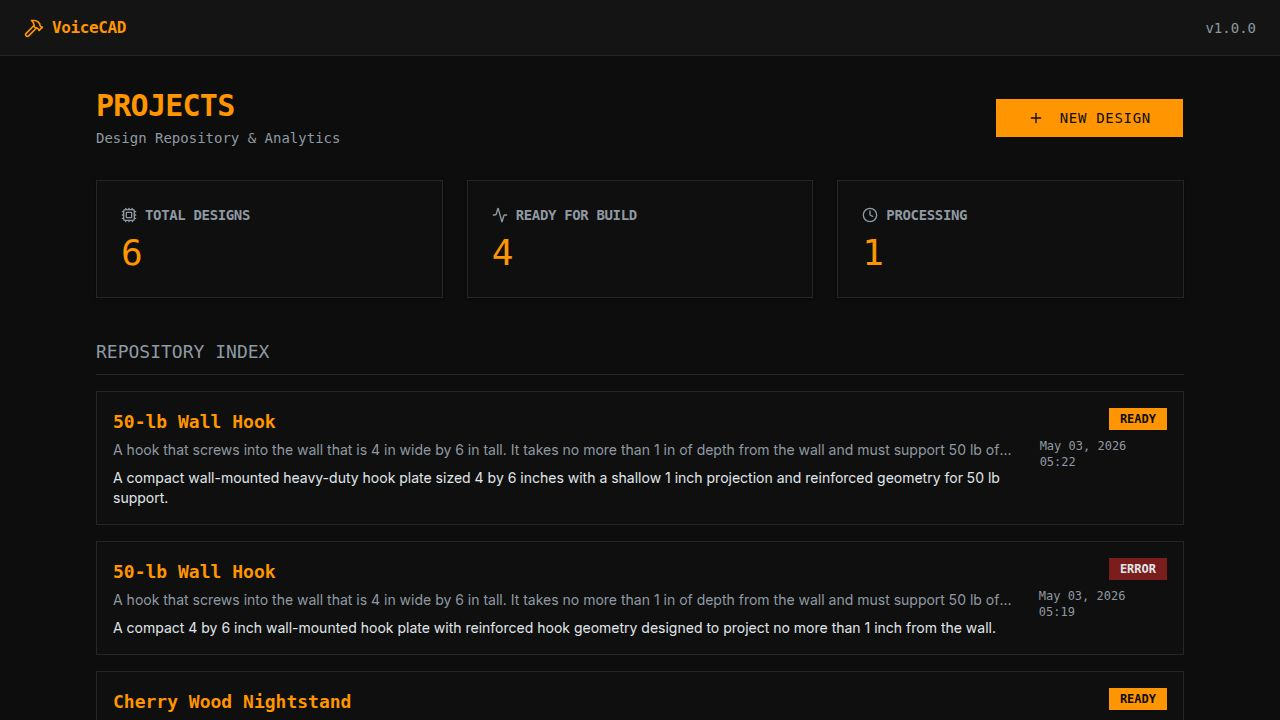
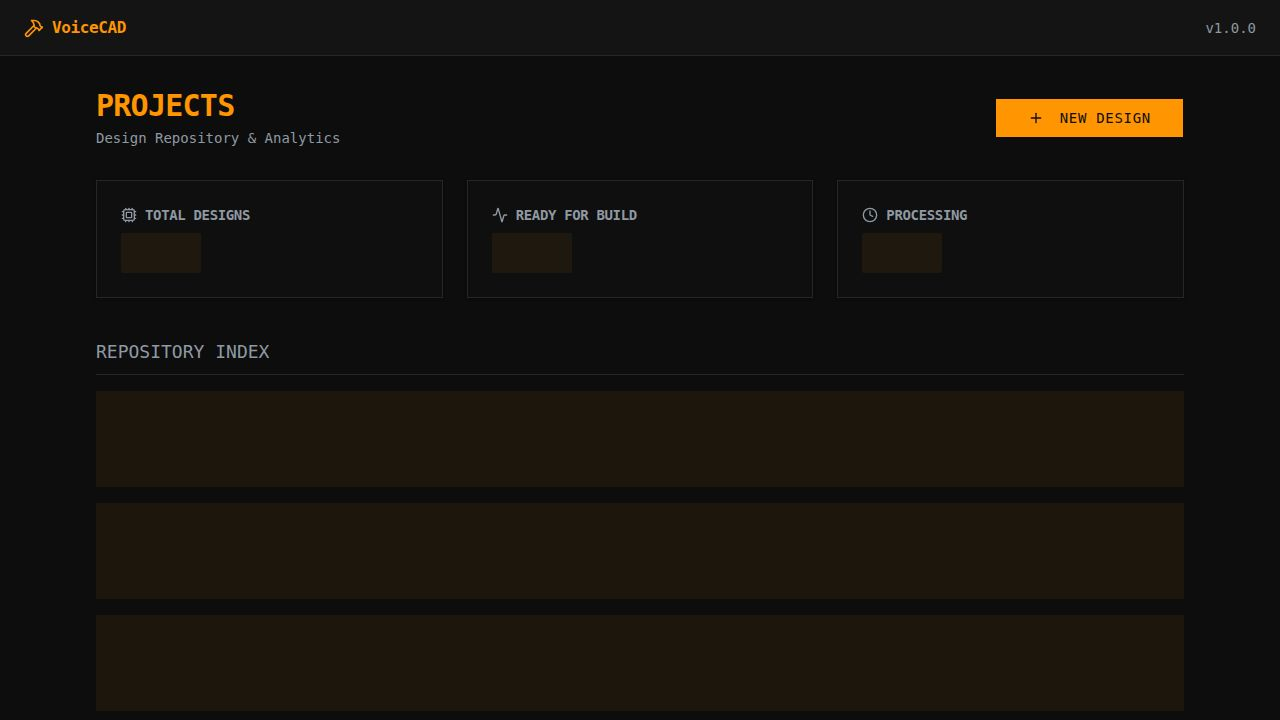
feat: Add STL export for 3D printing + fix nullable field regression (Task #2)
## Primary Work (Task #2)
Implemented client-side STL file export so users can download their designs
as .stl files for use with 3D printers or CAM software.

### New file: artifacts/app/src/lib/stl-export.ts
- Standalone utility building Three.js geometries from Component3D data
- Supports all three shapes: box, cylinder, sphere (mirrors WebGLViewer logic)
- Expands components by quantity for multi-part designs
- Uses STLExporter from three/addons/exporters/STLExporter.js
- Triggers browser download as ASCII STL named after the design

### Modified: artifacts/app/src/pages/design-studio.tsx
- Added Export STL button in the left panel (only shown when status=ready + components exist)
- Button uses data-testid="button-export-stl" and styled with primary color/monospace font
- Export respects the currently selected variant's activeComponents

## Bug Fix (addressed in code review)
Fixed a blocking backend regression where nullable optional fields from the AI prompt
caused Zod response validation failures, preventing designs from reaching "ready" state.

### Root cause
AI prompt instructed returning null for printTimeEstimate, weightCapacity, installationNotes
when not applicable. Zod schemas only accepted string | undefined (not null).

### Fix applied to
- artifacts/api-server/src/routes/designs.ts: strip null → delete key in validateStructuredData
- lib/api-spec/openapi.yaml: added nullable: true to all three fields
[…]

diff --git a/artifacts/app/src/lib/stl-export.ts b/artifacts/app/src/lib/stl-export.ts
@@ -1,0 +1,75 @@
+import * as THREE from "three";
+import { STLExporter } from "three/addons/exporters/STLExporter.js";
+
+interface Component3D {
+  name: string;
+  material: string;
+  quantity: number;
+  width: number;
+  height: number;
+  depth: number;
+  x: number;
+  y: number;
+  z: number;
+  color?: string;
+  shape?: "box" | "cylinder" | "sphere";
+}
+
+export function exportComponentsAsSTL(
+  components: Component3D[],
+  filename: string = "design"
+): void {
+  const group = new THREE.Group();
+  const SCALE = 0.5;
+
+  const expanded: Component3D[] = [];
+  components.forEach((comp) => {
+    const qty = Math.max(1, comp.quantity || 1);
+    for (let i = 0; i < qty; i++) {
+      const spacing = comp.width + 2;
+      expanded.push({
+        ...comp,
+        x: comp.x + (i - Math.floor(qty / 2)) * spacing,
+        quantity: 1,
+      });
+    }
+  });
+
+  expanded.forEach((comp) => {
+    let geo: THREE.BufferGeometry;
+    const shape = comp.shape || "box";
+    if (shape === "cylinder") {
+      const r = (Math.max(comp.width, comp.depth) / 2) * SCALE;
+      geo = new THREE.CylinderGeometry(r, r, comp.height * SCALE, 32);
+    } else if (shape === "sphere") {
+      const r = (Math.max(comp.width, comp.height, comp.depth) / 2) * SCALE;
+      geo = new THREE.SphereGeometry(r, 32, 32);
+    } else {
+      geo = new THREE.BoxGeometry(
+        comp.width * SCALE,
+        comp.height * SCALE,
+        comp.depth * SCALE
+      );
+    }
+
+    const mesh = new THREE.Mesh(
+      geo,
+      new THREE.MeshStandardMaterial({ color: comp.color || "#eab308" })
+    );
+    mesh.position.set(comp.x * SCALE, comp.y * SCALE, comp.z * SCALE);
+    group.add(mesh);
+  });
+
+  const exporter = new STLExporter();
+  const stlString = exporter.parse(group, { binary: false });
+
+  const blob = new Blob([stlString], { type: "application/octet-stream" });
+  const url = URL.createObjectURL(blob);
+  const a = document.createElement("a");
+  a.href = url;
+  a.download = `${filename}.stl`;
+  document.body.appendChild(a);
+  a.click();
+  document.body.removeChild(a);
+  URL.revokeObjectURL(url);
+}

diff --git a/artifacts/app/src/pages/design-studio.tsx b/artifacts/app/src/pages/design-studio.tsx
@@ -26,6 +26,7 @@ import {
   TableHeader,
   TableRow,
 } from "@/components/ui/table";
+import { Separator } from "@/components/ui/separator";
 import {
   Loader2,
   ArrowRight,
@@ -40,6 +41,7 @@ import {
   FileText,
   ChevronDown,
   ChevronUp,
+  Download,
 } from "lucide-react";
 import { useToast } from "@/hooks/use-toast";
 import {
@@ -53,8 +55,7 @@ import {
   AlertDialogTitle,
   AlertDialogTrigger,
 } from "@/components/ui/alert-dialog";
-
-type MobilePanel = "spec" | "model" | "details";
+import { exportComponentsAsSTL } from "@/lib/stl-export";
 
 export default function DesignStudio() {
   const { id } = useParams<{ id: string }>();
@@ -741,6 +742,17 @@ export default function DesignStudio() {
                 disabled={interpretDesign.isPending}
               >
                 <Play className="w-3 h-3 mr-2" /> Retry
+              </Button>
+            )}
+            {design.status === "ready" && activeComponents.length > 0 && (
+              <Button
+                size="sm"
+                variant="outline"
+                className="w-full rounded-none font-mono text-xs text-primary border-primary/30 hover:bg-primary/10"
+                onClick={() => exportComponentsAsSTL(activeComponents, design.name || "design")}
+                data-testid="button-export-stl"
+              >
+                <Download className="w-3 h-3 mr-2" /> Export STL
               </Button>
             )}
             <DeleteButton />

diff --git a/artifacts/api-server/src/routes/designs.ts b/artifacts/api-server/src/routes/designs.ts
@@ -54,9 +54,9 @@ function validateStructuredData(raw: unknown): Record<string, unknown> {
   d.components = validateComponents(d.components, "primary");
   if (!d.unit) d.unit = "inches";
 
-  // Strip null values from optional string fields — Zod expects undefined, not null
-  for (const key of ["printTimeEstimate", "weightCapacity", "installationNotes", "estimatedCost", "summary", "designType"]) {
-    if (d[key] === null) d[key] = undefined;
+  // Normalize nullable optional string fields: AI may return null, schema expects undefined
+  for (const key of ["printTimeEstimate", "weightCapacity", "installationNotes", "estimatedCost"]) {
+    if (d[key] === null) delete d[key];
   }
 
   // Validate design variants if present